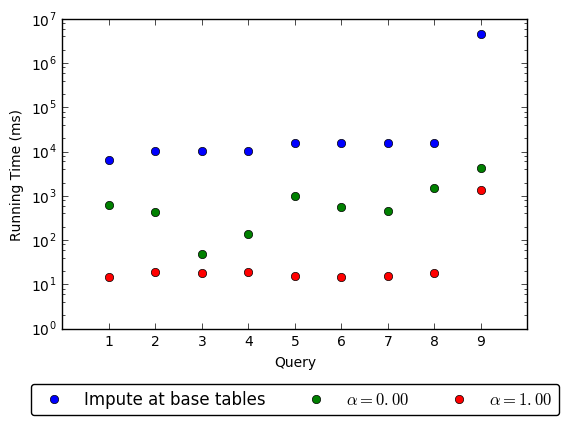
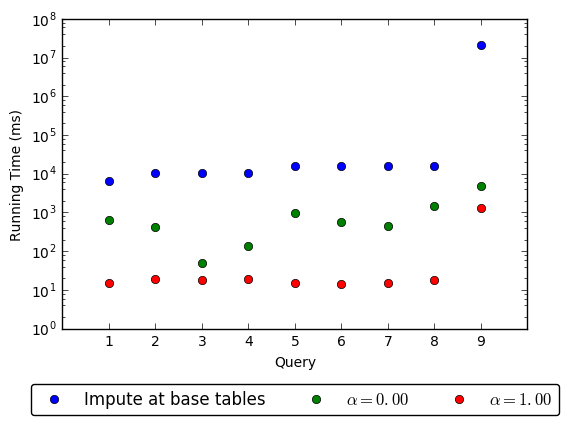
Update acs timing

diff --git a/paper/experiments.tex b/paper/experiments.tex
@@ -1,5 +1,9 @@
 \newcommand{\demorows}{10175}
 \newcommand{\labexrows}{9813}
+\newcommand{\acsbaseresultminutes}{355 minutes}
+\newcommand{\acsbaseresulthours}{just under 6 hours}
+\newcommand{\acsimputedbzeroresult}{4 seconds}
+\newcommand{\acsimputedboneresult}{1 second}
 
 \section{Experiments}\label{sec:experiments}
 To evaluate the performance of our approach,  we implemented
@@ -161,8 +165,7 @@ to explore multiple imputations operations (including more expensive operators) 
     performance ($\alpha=1$). Quality-optimized, on-the-fly imputation provides an order of
     magnitude speedup over imputing on base tables. Efficiency-optimized on-the-fly
     imputation can provide another order-of-magnitude speedup at the expense of quality. For
-    relatively expensive queries over large datasets (Query 9), runtime of imputation can be reduced from 6.5
-    hours to 7 seconds. }
+    relatively expensive queries over large datasets (Query 9), runtime of imputation can be reduced from \acsbaseresulthours~to \acsimputedbzeroresult. }
 \label{fig:runtimes}
 \end{figure}
 
@@ -202,8 +205,8 @@ In many real-world cases, applying the imputation step at the base table is proh
 expensive.
 To illustrate the increasing difficulty of such an approach as datasets scale, we run~\Cref{q9} over the ACS dataset.
 Applying the imputation operation to the base table is extremely expensive, in our case
-completing in 355 minutes(\Cref{fig:runtimes})\todo{Micah: this doesn't match the 6.5 hours in the figure}. In contrast, \ProjectName{} executes a quality-optimized version
-in 7 seconds and a runtime-optimized version in 1 second. This highlights the potential
+completing in \acsbaseresultminutes (\Cref{fig:runtimes}. In contrast, \ProjectName{} executes a quality-optimized version
+in\acsimputedbzeroresult~and a runtime-optimized version in \acsimputedboneresult. This highlights the potential
 benefit of using our system for early data exploration.
 
 %%% Local Variables:
